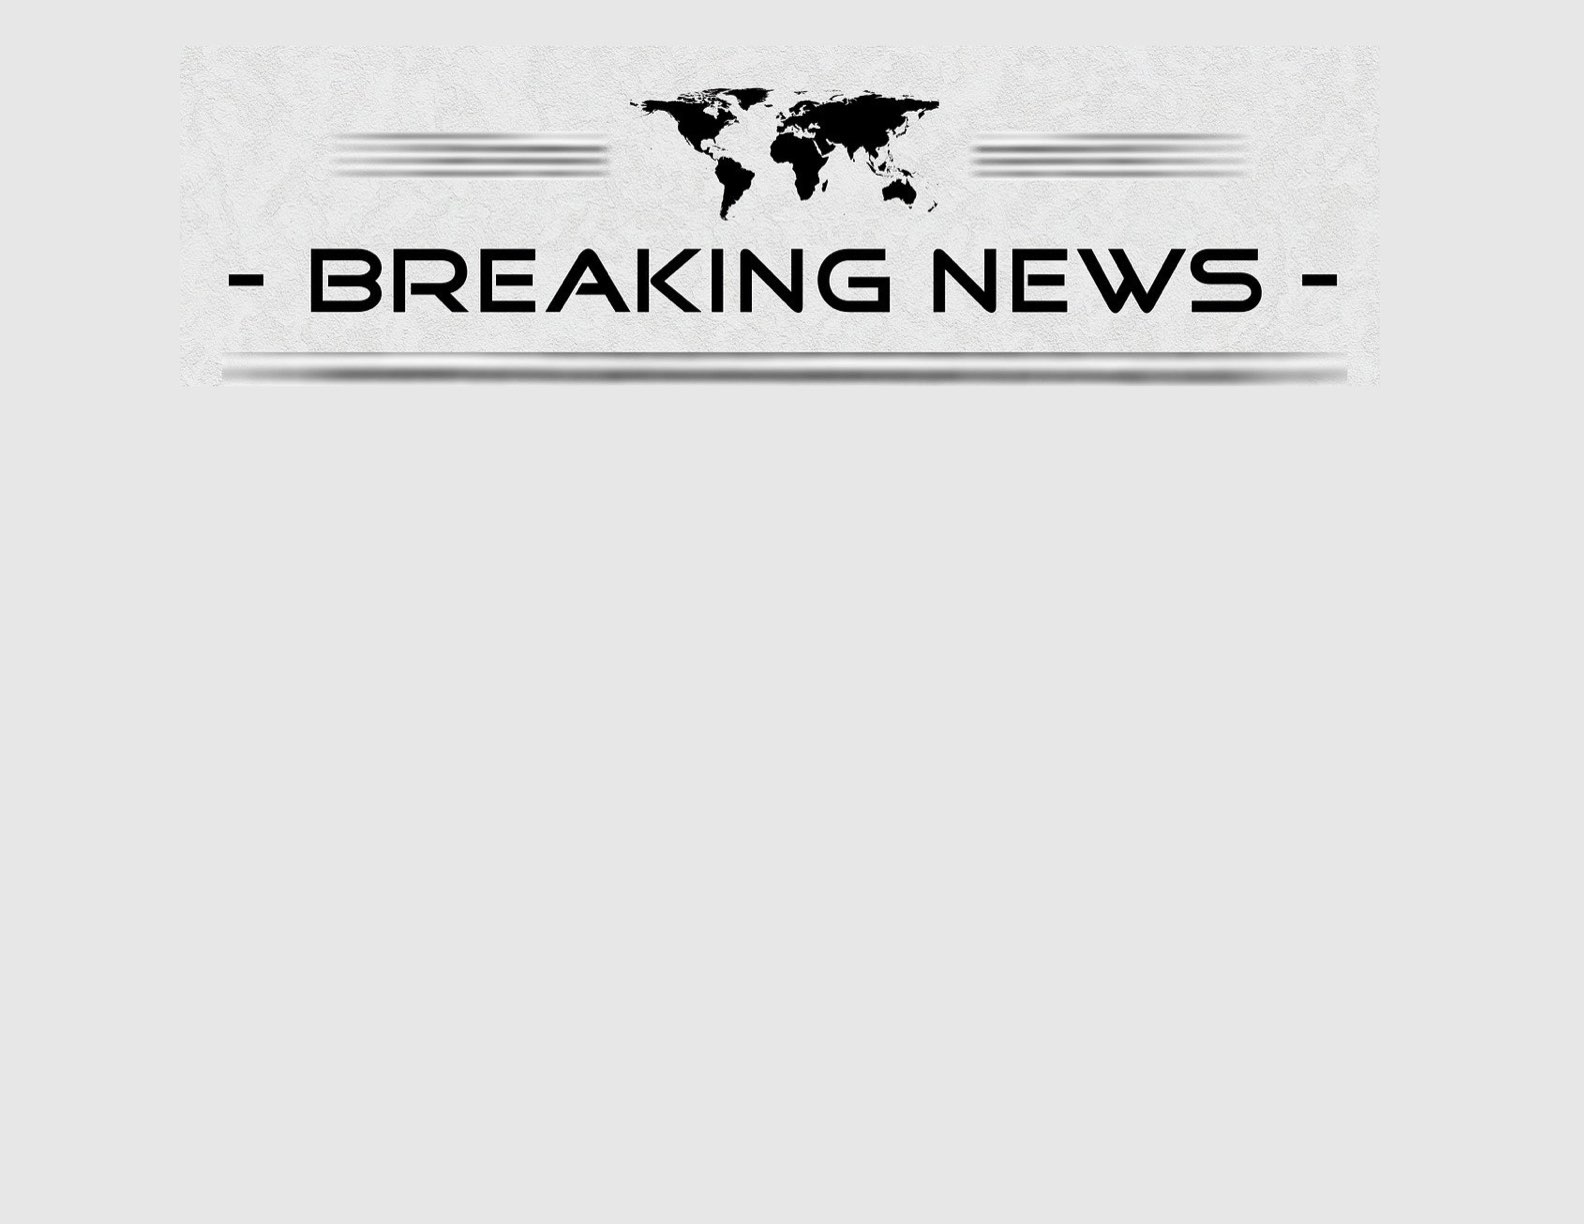
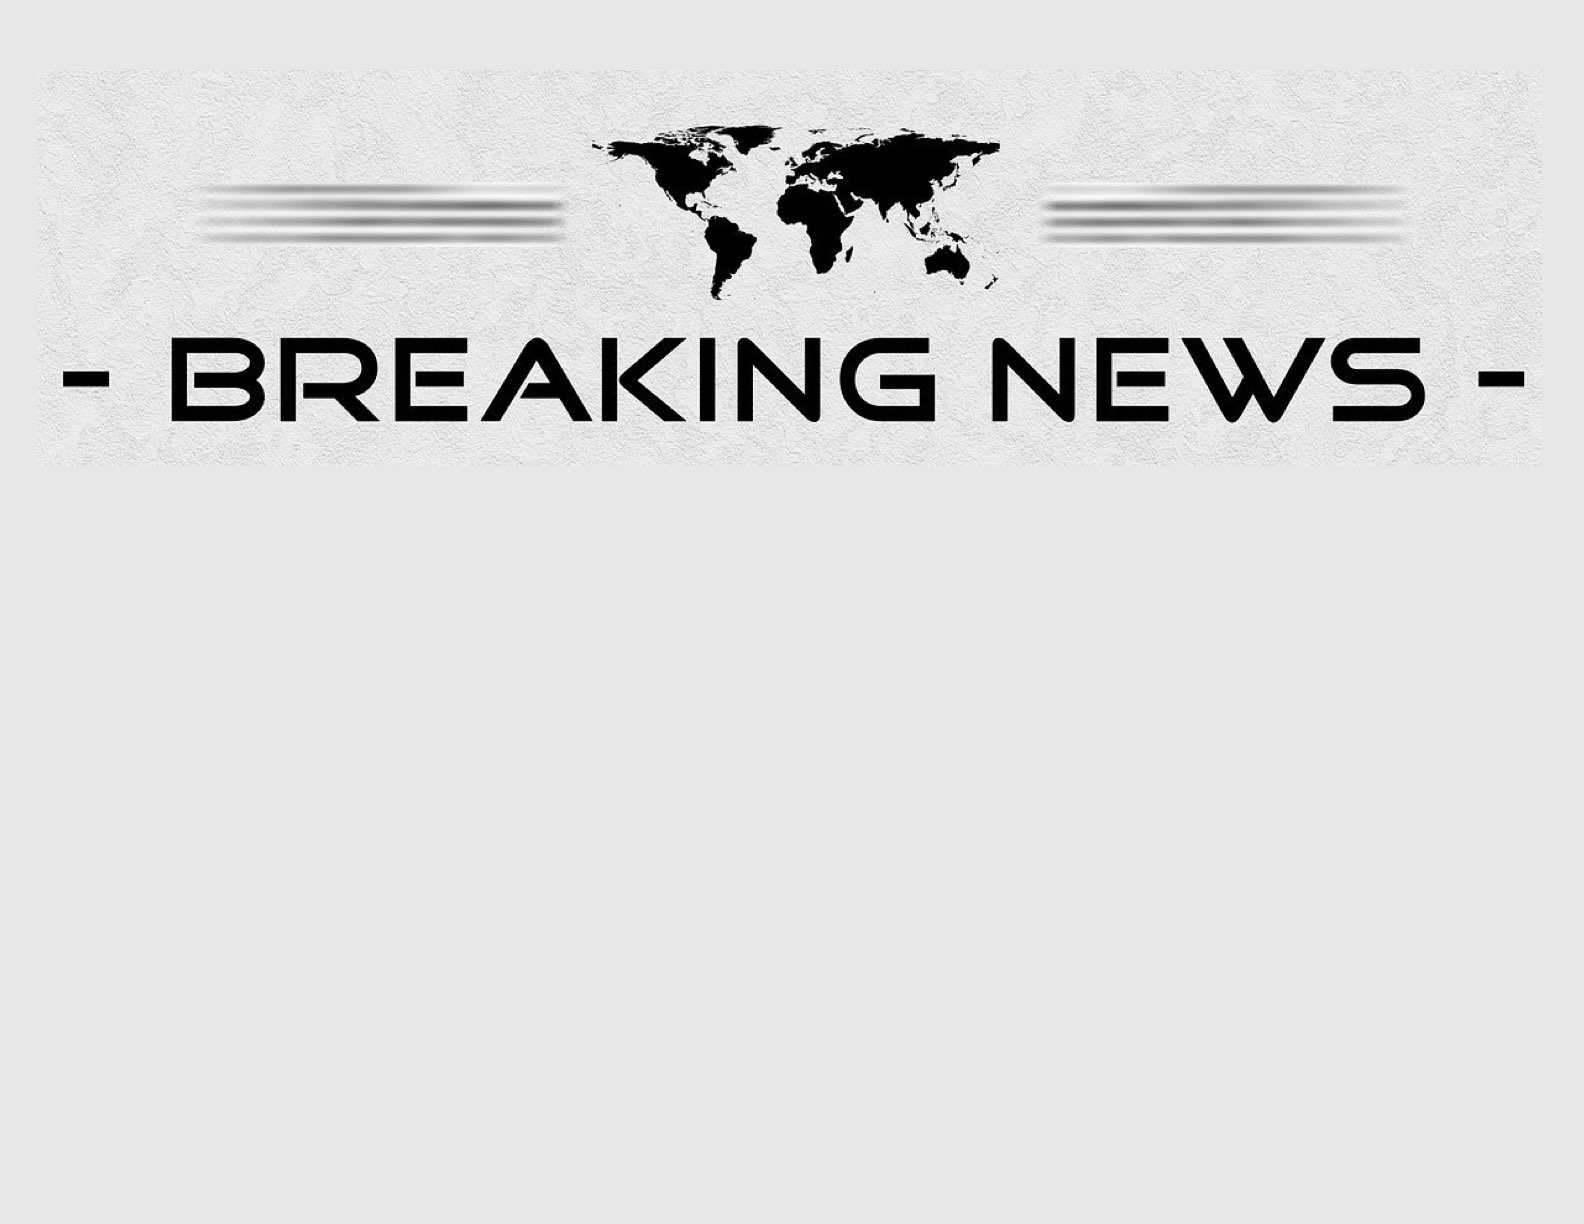
almost there?

Changed region(s): [[0.0928, 0.0621, 0.8971, 0.3725], [0.928, 0.2794, 0.959, 0.3415], [0.0309, 0.2794, 0.0619, 0.3415]]

diff --git a/slides.md b/slides.md
@@ -91,7 +91,7 @@
 
 
 
-<!-- .slide: data-background-image="assets/breaking.jpg"-->
+<!-- .slide: data-background-image="assets/headline.jpg"-->
 
 ---
 ## Developer failed!
